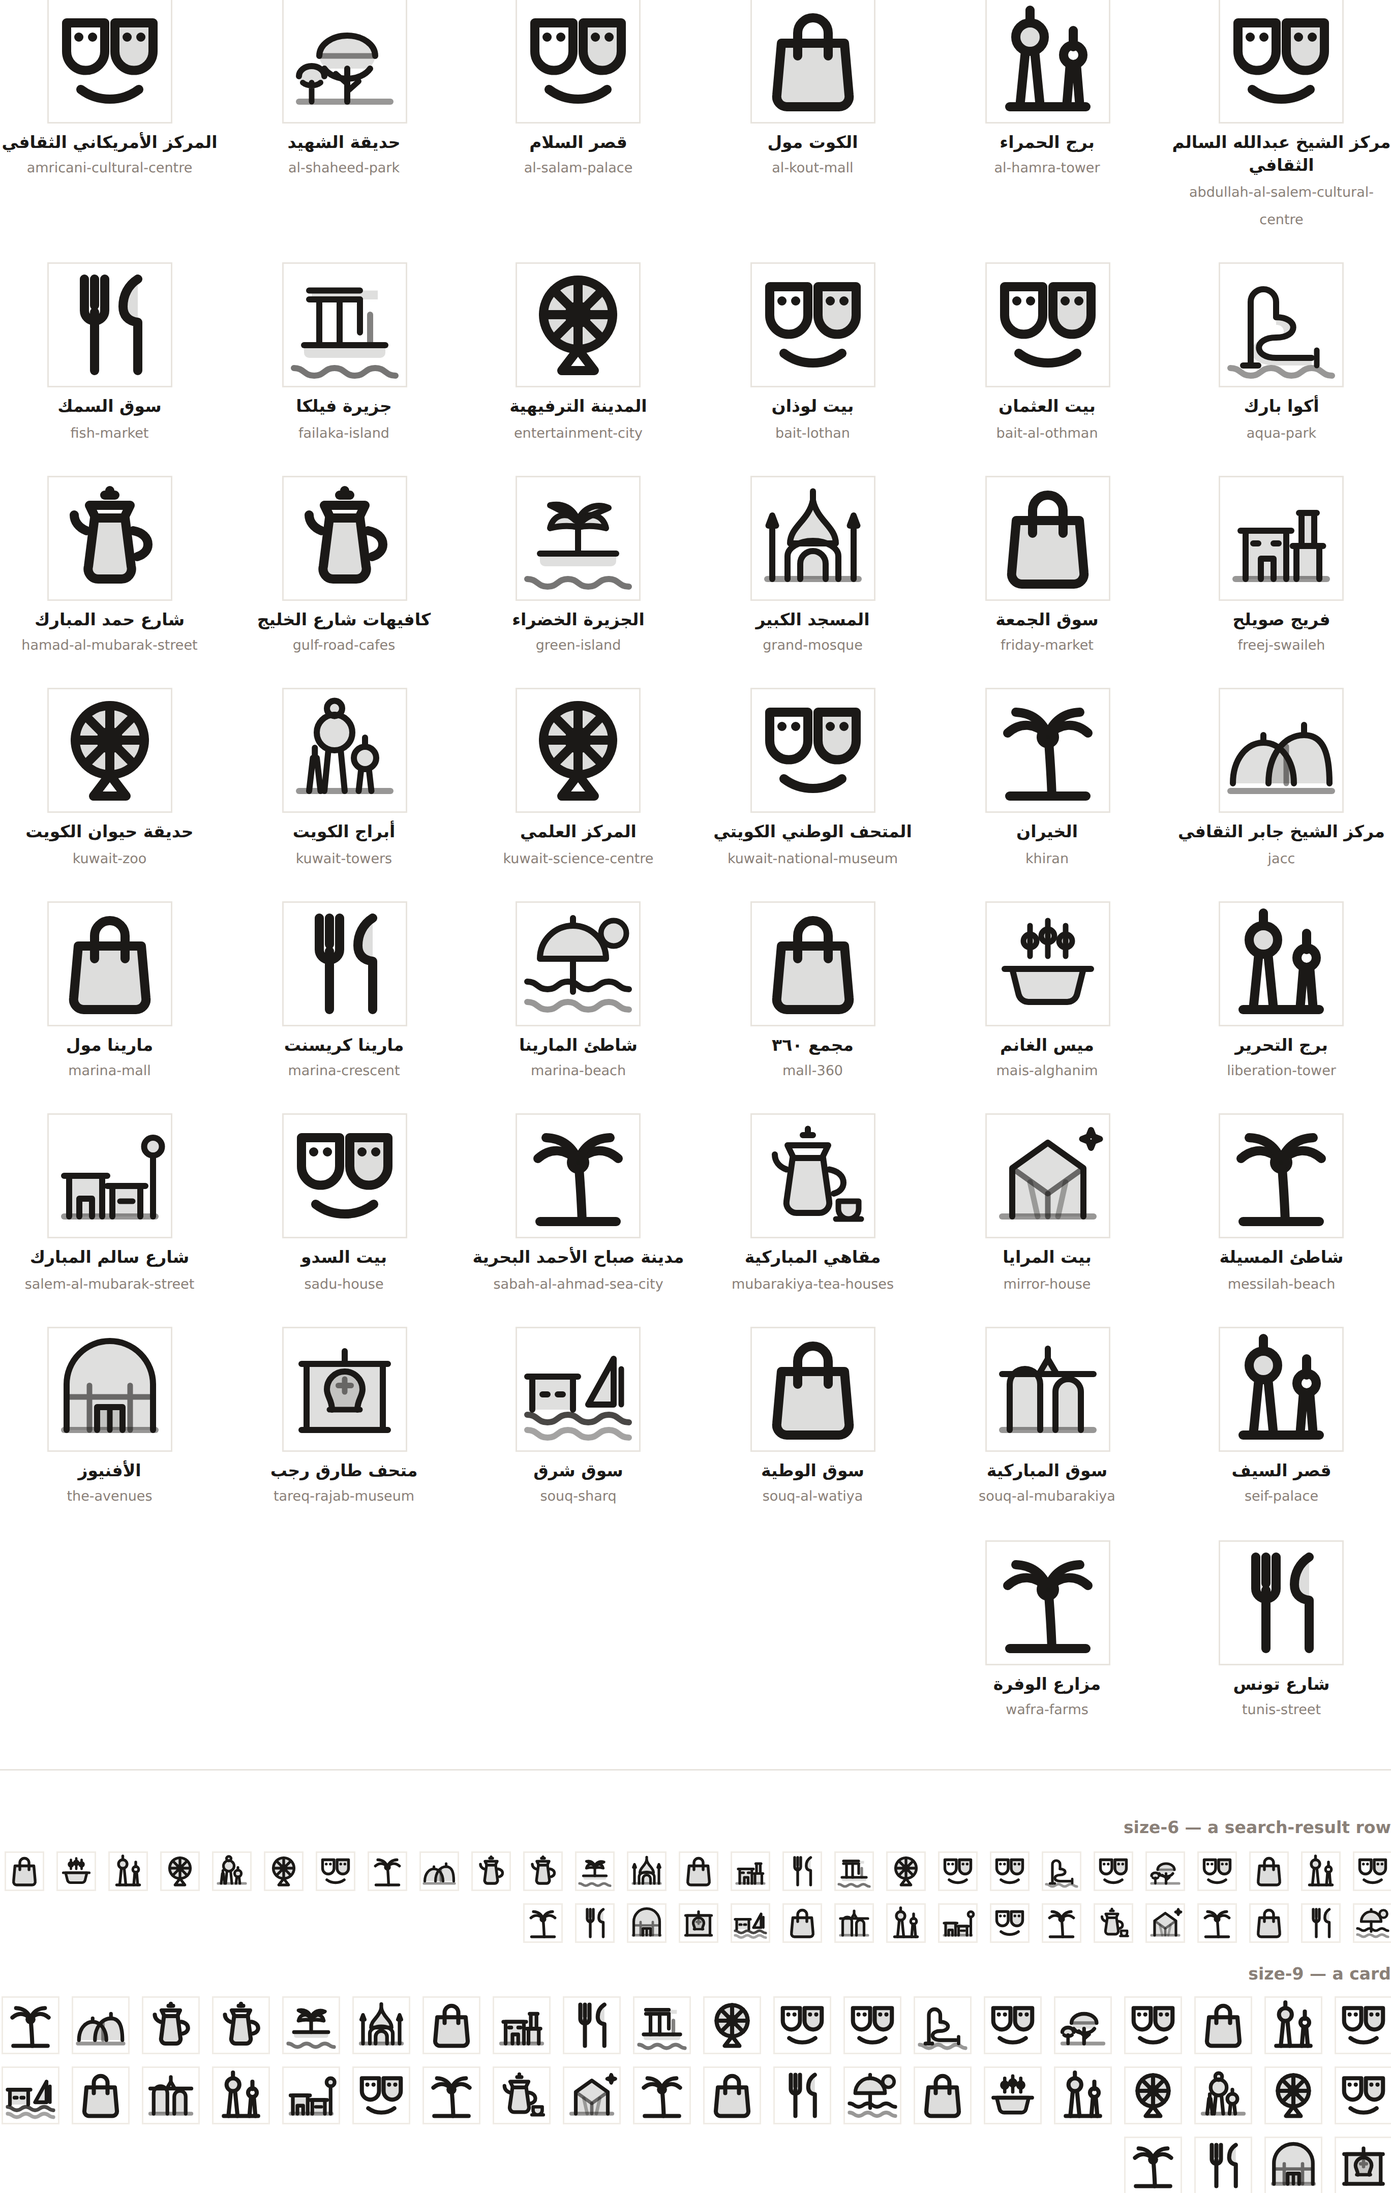
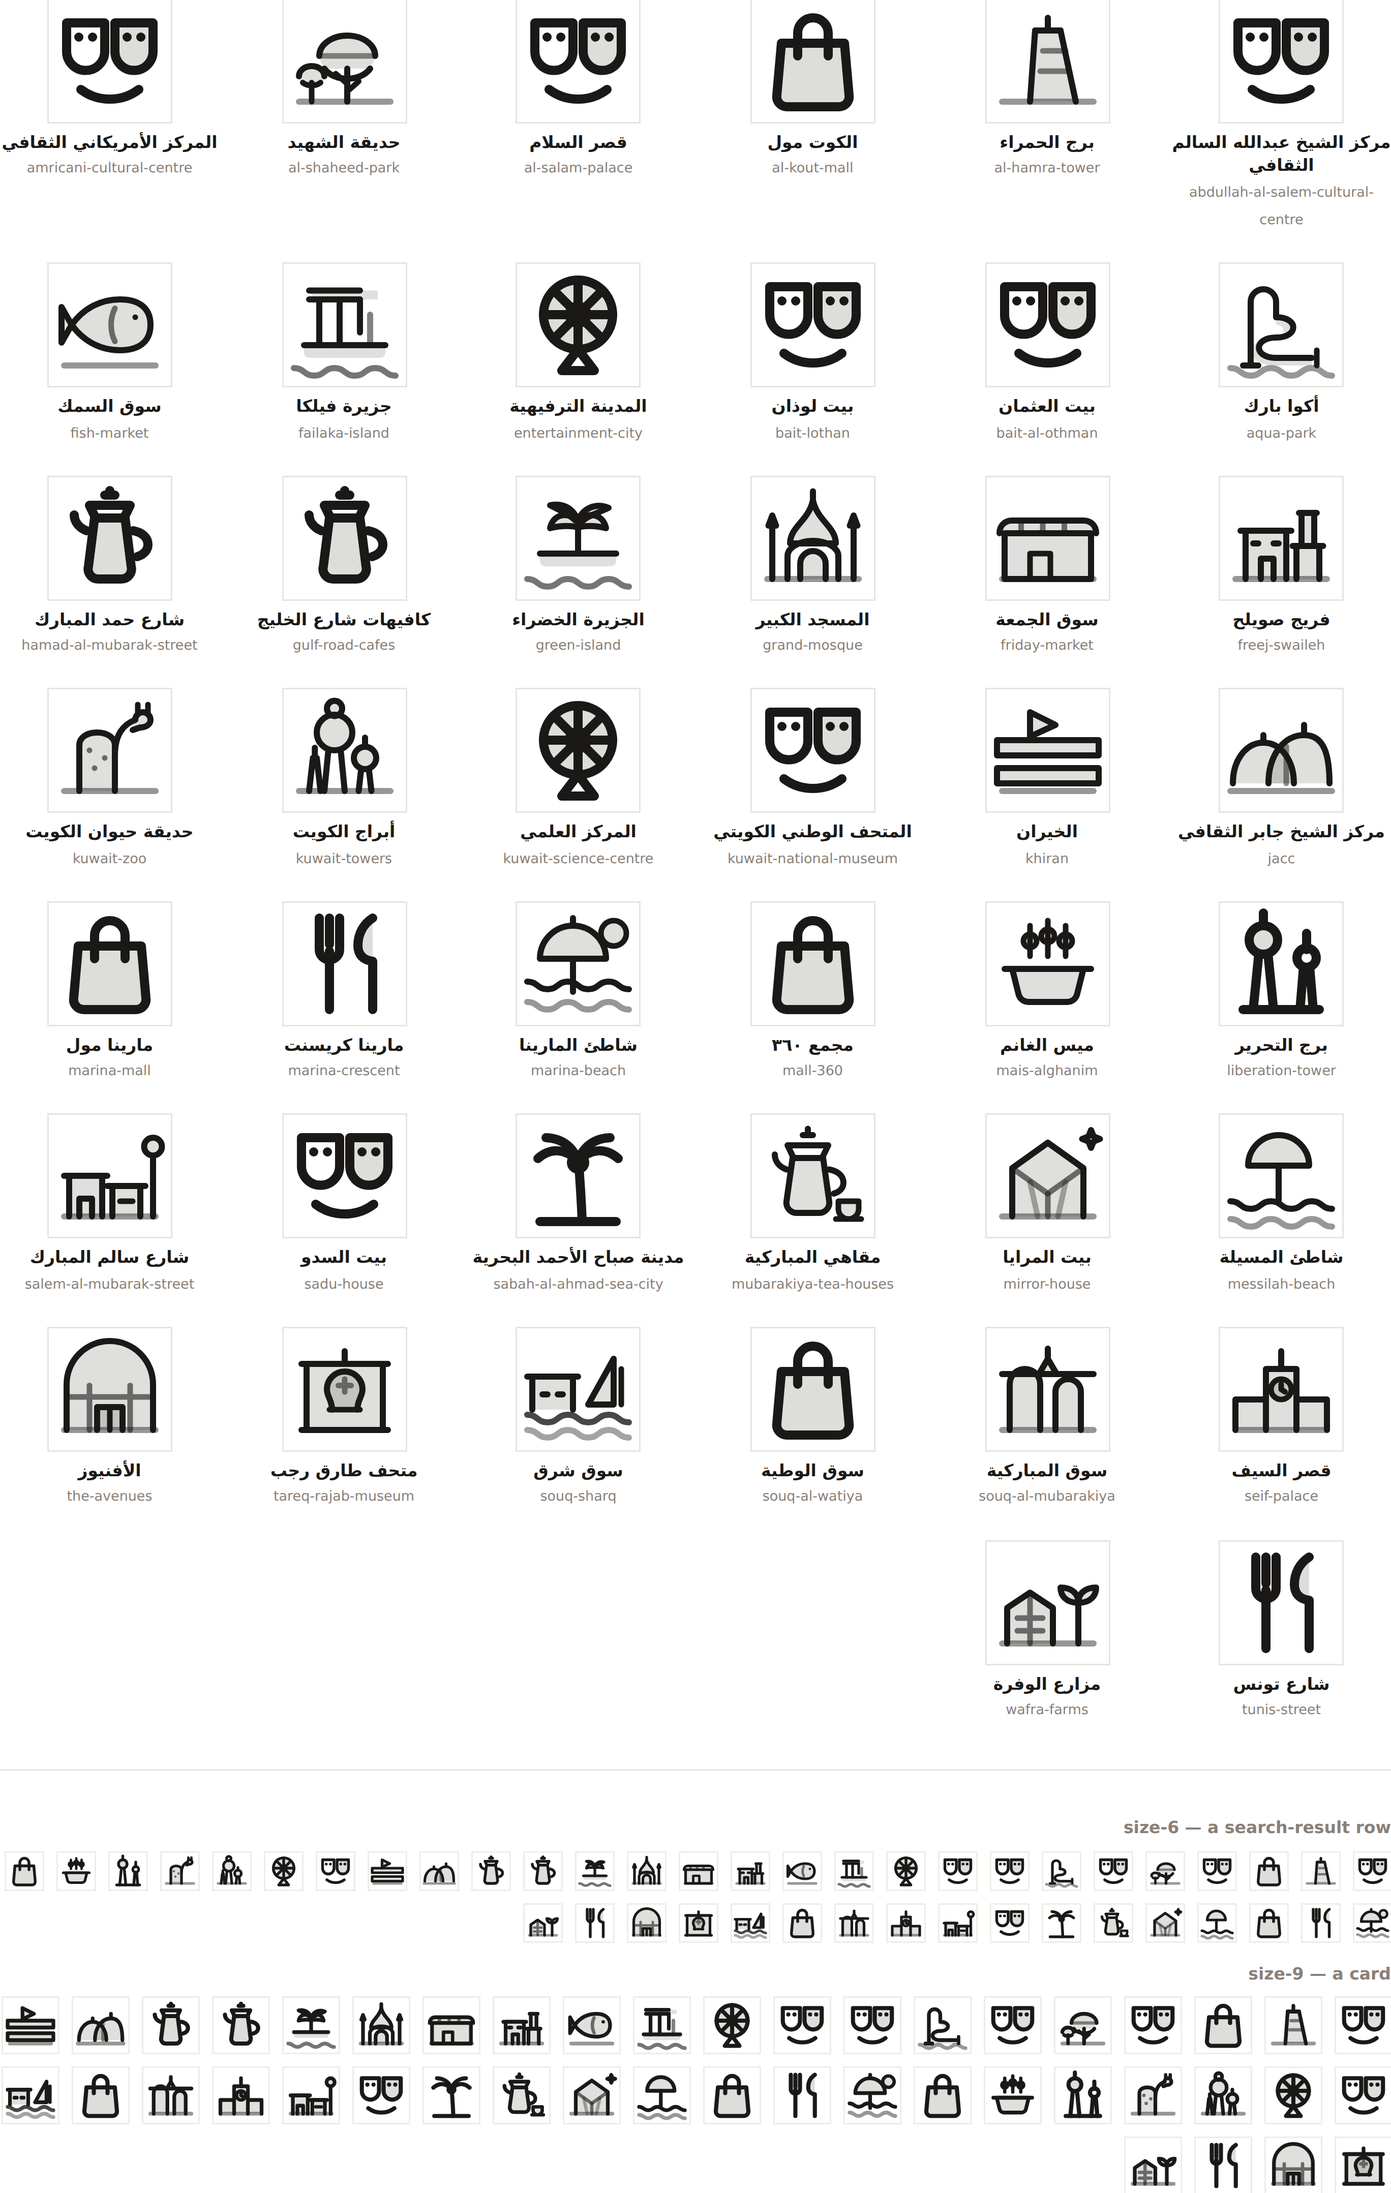
Search that keeps up, a pin that points, and eight fewer identical dots
Three things, each measured before and after.

**The search box lagged the finger by half a second.** On a 4× throttled
phone a keystroke took up to 615ms to paint, and typing one phrase
produced fourteen long tasks — up to 224ms each. Almost none of it was
the search: `search()` costs 0.09ms over this catalogue. It was
everything hanging off it — up to sixty result cards, and a map that
re-fits its frame and re-spreads every pin, all synchronously, between
the key going down and the letter appearing.

useDeferredValue splits the two. `q` still updates instantly so the box
echoes the finger; everything derived from it re-renders at a lower
priority and is interruptible, so the next keystroke pre-empts a results
render still in flight instead of queueing behind it. Worst keystroke
615ms → 78ms, under the 100ms «instant» threshold; long tasks 14 → 4.

Two things ride along, both about the same feeling. Stale results dim
rather than blank, because blanking makes every keystroke a flash of
empty page. And «ما لقينا شي عن…» no longer appears while the results are
still catching up — announcing a dead end mid-word is the most annoying
thing a live search box can do.

**The pin is a pointer now.** A disc centred on the coordinate is compact
and mute about WHICH point: a crosshair drawn at the true position
disappears entirely under it. The tip is the place; the head is where the
icon lives. Two things were wrong on the way and the new assertion caught
[…]

diff --git a/src/components/MapPin.tsx b/src/components/MapPin.tsx
@@ -48,6 +48,10 @@ const TONE: Record<CategoryId, string> = {
   family: "bg-palm-700",
 };
 
+/** The head's white outline, in px — `border-2`. Named because the nose has
+ *  to compensate for it: see where the nose is positioned. */
+const HEAD_BORDER = 2;
+
 /** Matching ring for the halo around an active pin. */
 const RING: Record<CategoryId, string> = {
   landmarks: "bg-sea-600/30",
@@ -117,18 +121,35 @@ export default function MapPin({
    */
   const selectedOnPress = useRef(false);
 
+  /**
+   * The nose, and how far the pin now stands above its own coordinate.
+   *
+   * A disc centred on the point is compact and it is also mute about WHICH
+   * point: the coordinate is somewhere under the disc, and a crosshair drawn
+   * at the true position disappears entirely beneath it. A pointer says it —
+   * the tip is the place, the head is just where the icon lives.
+   *
+   * So the whole pin moved up by its own height (-translate-y-full) and the
+   * tip, not the centre, sits on the coordinate. Everything the frame computes
+   * is unchanged: `spreadPins` still reserves a circle of `size`, because the
+   * head is still what must not overlap its neighbours.
+   */
+  const nose = Math.round(size * 0.34);
+
   return (
     <span
       style={style}
-      className={`absolute -translate-x-1/2 -translate-y-1/2 ${active ? "z-30" : dim ? "z-10" : "z-20"}`}
+      className={`absolute -translate-x-1/2 -translate-y-full ${active ? "z-30" : dim ? "z-10" : "z-20"}`}
     >
       {/* The halo sits behind and is the thing that makes the active pin
-          findable at a glance on a busy frame. It never intercepts a tap. */}
+          findable at a glance on a busy frame. It never intercepts a tap.
+          Centred on the TIP rather than the head: it marks the ground, which
+          is the thing the pin is pointing at. */}
       {active && (
         <span
           aria-hidden="true"
           style={{ width: size * 2, height: size * 2 }}
-          className={`pointer-events-none absolute left-1/2 top-1/2 -translate-x-1/2 -translate-y-1/2 animate-ping rounded-full motion-reduce:animate-none ${RING[place.category]}`}
+          className={`pointer-events-none absolute bottom-0 left-1/2 -translate-x-1/2 translate-y-1/2 animate-ping rounded-full motion-reduce:animate-none ${RING[place.category]}`}
         />
       )}
 
@@ -151,12 +172,45 @@ export default function MapPin({
         }}
         aria-label={`${place.nameAr} — ${place.areaAr}`}
         aria-current={active ? "true" : undefined}
-        style={{ width: size, height: size }}
+        style={{
+          width: size,
+          height: size,
+          // Grow from the tip, so hovering enlarges the pin without sliding
+          // the point it is naming. Scaling about the head's centre moves the
+          // tip by a couple of pixels on every hover, which on a map reads as
+          // the place itself twitching.
+          transformOrigin: `50% ${size + nose / 2}px`,
+          // Half the nose's DIAGONAL, not its side. The square is centred on
+          // the head's bottom edge and turned 45°, so the corner that forms
+          // the tip reaches nose·√2/2 below that edge — reserving `nose` here
+          // instead left the tip 4.6px short of the coordinate it names, which
+          // is most of a city block at the zoom a place page opens at.
+          marginBottom: nose * Math.SQRT1_2,
+        }}
         className={`relative grid place-items-center rounded-full border-2 border-white text-white shadow-md ring-1 ring-ink-900/10 transition duration-200 hover:scale-110 focus-visible:scale-110 ${
           TONE[place.category]
         } ${active ? "scale-110 shadow-xl" : dim ? "opacity-80" : ""}`}
       >
         <PlaceIcon slug={place.slug} className={size >= 32 ? "size-5" : "size-4"} />
+        {/* The nose. A square on its corner, tucked under the head so the two
+            read as one shape — and a child of the link, so it scales with the
+            head instead of staying behind while the head grows. The white on
+            its two outer edges continues the head's border down to the tip. */}
+        <span
+          aria-hidden="true"
+          /**
+           * `-nose/2` would centre the square on the head's bottom edge — if
+           * the head had no border. An absolutely positioned child is placed
+           * against its parent's PADDING box, and the head's white border-2
+           * sits outside that, so every offset here starts 2px too high and
+           * the tip landed 1.4px short of the coordinate. HEAD_BORDER puts it
+           * back, and names the reason so the two cannot drift apart.
+           */
+          style={{ width: nose, height: nose, bottom: -(nose / 2 + HEAD_BORDER) }}
+          className={`absolute left-1/2 -z-10 -translate-x-1/2 rotate-45 rounded-[3px] border-b-2 border-e-2 border-white ${
+            TONE[place.category]
+          }`}
+        />
       </Link>
 
       {/* The callout. On a phone this is the whole reason the first tap does

diff --git a/src/components/PlaceIcon.tsx b/src/components/PlaceIcon.tsx
@@ -346,6 +346,124 @@ function Art({ slug }: { slug: string }) {
         </>
       );
 
+    /* ── drawn to break up the fallbacks ────────────────────────────────
+       Twenty-seven of forty-four places had no mark of their own, so a map
+       of six culture places drew the same museum glyph six times and the two
+       southern beaches were one identical palm. These are the subjects that
+       were colliding most on a single frame. */
+
+    case "fish-market":
+      return (
+        <>
+          <path {...F} d="M9 24c5-7 12-10 19-10s12 3 12 10-5 10-12 10-14-3-19-10Z" />
+          <path d="M9 24c5-7 12-10 19-10s12 3 12 10-5 10-12 10-14-3-19-10Z" />
+          {/* The tail, and the reason a fish reads as a fish at 16px. */}
+          <path {...F} d="M9 24 5 17v14Z" />
+          <path d="M9 24 5 17v14Z" />
+          <path d="M34 21h.01" style={DETAIL} />
+          <path d="M26 17.5c-2 4-2 9 0 13" style={DETAIL} opacity={0.6} />
+          {GROUND}
+        </>
+      );
+
+    case "al-hamra-tower":
+      return (
+        <>
+          {/* The twist: two edges that lean opposite ways, which is the whole
+              silhouette people recognise from the skyline. */}
+          <path {...F} d="M17 40 19 12h10l6 28Z" />
+          <path d="M17 40 19 12h10l6 28" />
+          <path d="M19 12h10" />
+          <path d="M22 20h9M21 28h11" style={DETAIL} opacity={0.55} />
+          <path d="M24 12V7" />
+          {GROUND}
+        </>
+      );
+
+    case "seif-palace":
+      return (
+        <>
+          {/* The clock tower, tiled blue and gold, over the palace wall. */}
+          <path {...F} d="M18 40V16h12v24Z" />
+          <path d="M18 40V16h12v24" />
+          <path d="M24 16V9" />
+          <circle {...F} cx="24" cy="24" r="4" />
+          <circle cx="24" cy="24" r="4" style={DETAIL} />
+          <path d="M24 22v2l1.5 1" style={DETAIL} />
+          <path {...F} d="M6 40V28h12v12ZM30 40V28h12v12Z" />
+          <path d="M6 40V28h12M30 28h12v12" />
+          {GROUND}
+        </>
+      );
+
+    case "kuwait-zoo":
+      return (
+        <>
+          {/* A giraffe: the one animal whose outline survives 16px. */}
+          <path {...F} d="M26 40V22c0-3-3-5-7-5s-7 2-7 5v18Z" />
+          <path d="M26 40V22c0-3-3-5-7-5s-7 2-7 5v18" />
+          <path d="M26 26c0-8 3-12 8-14" />
+          <path {...F} d="M34 12a3 3 0 0 1 6 0c0 2-2 3-4 3l-3 1Z" />
+          <path d="M34 12a3 3 0 0 1 6 0c0 2-2 3-4 3l-3 1" />
+          <path d="M35 9V6M39 9V6" style={DETAIL} />
+          <path d="M16 24h.01M22 27h.01M18 31h.01" style={DETAIL} opacity={0.6} />
+          {GROUND}
+        </>
+      );
+
+    case "khiran":
+      return (
+        <>
+          {/* Water cut into the desert: two channels and a boat, not a beach. */}
+          <path {...F} d="M4 20h40v6H4ZM4 31h40v6H4Z" />
+          <path d="M4 20h40v6H4ZM4 31h40v6H4Z" />
+          <path {...F} d="M17 20V9l10 5-10 4.6Z" />
+          <path d="M17 20V9l10 5-10 4.6Z" />
+          {GROUND}
+        </>
+      );
+
+    case "messilah-beach":
+      return (
+        <>
+          {/* A parasol on sand — the difference between this and a public park
+              is the thing you bring, not the plants. */}
+          <path {...F} d="M11 20a12 12 0 0 1 24 0Z" />
+          <path d="M11 20a12 12 0 0 1 24 0Z" />
+          <path d="M23 20v14" />
+          <path d="M4 34c4 0 4 3 8 3s4-3 8-3 4 3 8 3 4-3 8-3 4 3 8 3" />
+          <path d="M4 41c4 0 4 3 8 3s4-3 8-3 4 3 8 3 4-3 8-3 4 3 8 3" opacity={0.45} />
+        </>
+      );
+
+    case "wafra-farms":
+      return (
+        <>
+          {/* Rows under glass, with the season's dates hanging at the side. */}
+          <path {...F} d="M8 40V26l9-6 9 6v14Z" />
+          <path d="M8 40V26l9-6 9 6v14" />
+          <path d="M17 20v20M12 30h10M12 35h10" style={DETAIL} opacity={0.6} />
+          <path d="M36 40V24" />
+          <path {...F} d="M36 24c-5 0-7-3-7-6 4 0 7 2 7 6ZM36 24c5 0 7-3 7-6-4 0-7 2-7 6Z" />
+          <path d="M36 24c-5 0-7-3-7-6 4 0 7 2 7 6ZM36 24c5 0 7-3 7-6-4 0-7 2-7 6Z" />
+          {GROUND}
+        </>
+      );
+
+    case "friday-market":
+      return (
+        <>
+          {/* A stall: the scalloped awning is the whole signal. */}
+          <path {...F} d="M7 22h34v18H7Z" />
+          <path d="M7 22h34v18H7Z" />
+          <path {...F} d="M5 22c0-3 2-5 5-5h28c3 0 5 2 5 5Z" />
+          <path d="M5 22c0-3 2-5 5-5h28c3 0 5 2 5 5" />
+          <path d="M13.5 17v5M22 17v5M30.5 17v5" style={DETAIL} opacity={0.6} />
+          <path d="M17 40V30h8v10" style={DETAIL} />
+          {GROUND}
+        </>
+      );
+
     /* Fallback: a pin, so a newly added place still gets a mark. */
     default:
       return null;

diff --git a/src/app/search/SearchClient.tsx b/src/app/search/SearchClient.tsx
@@ -1,6 +1,6 @@
 "use client";
 
-import { useEffect, useMemo, useRef, useState } from "react";
+import { useDeferredValue, useEffect, useMemo, useRef, useState } from "react";
 import { useRouter, useSearchParams } from "next/navigation";
 import Link from "next/link";
 import SearchMap from "@/components/SearchMap";
@@ -36,12 +36,32 @@ export default function SearchClient() {
   const [activeSlug, setActiveSlug] = useState<string | null>(null);
   const inputRef = useRef<HTMLInputElement>(null);
 
+  /**
+   * The query the RESULTS are for, which is allowed to lag the query the BOX
+   * shows.
+   *
+   * Measured on a 4× throttled phone, a keystroke took up to 615ms to paint
+   * and typing one phrase produced fourteen long tasks. Almost none of it was
+   * the search: `search()` costs 0.09ms over this catalogue. It was the
+   * rendering hanging off it — up to sixty result cards, and a map that
+   * re-fits its frame and re-spreads every pin, all synchronously, between the
+   * key going down and the letter appearing.
+   *
+   * useDeferredValue splits the two. `q` still updates instantly, so the box
+   * echoes the finger; everything derived from `deferredQ` re-renders at a
+   * lower priority and is interruptible, so the next keystroke pre-empts a
+   * results render still in flight instead of queueing behind it.
+   */
+  const deferredQ = useDeferredValue(q);
+  /** True while the results on screen are for an older query than the box. */
+  const settling = deferredQ !== q;
+
   // Rebuilt whenever the place data changes (admin edits arrive live).
   const index = useMemo(() => buildIndex(places), [places]);
 
   const hits = useMemo(
-    () => search(q, index, { limit: 40, kinds: kind === "all" ? undefined : [kind] }),
-    [q, index, kind]
+    () => search(deferredQ, index, { limit: 40, kinds: kind === "all" ? undefined : [kind] }),
+    [deferredQ, index, kind]
   );
 
   // The place hits, in result order, resolved back to full records so the map
@@ -71,7 +91,7 @@ export default function SearchClient() {
   }, []);
 
   const counts = useMemo(() => {
-    const all = search(q, index, { limit: 200 });
+    const all = search(deferredQ, index, { limit: 200 });
     return {
       all: all.length,
       place: all.filter((h) => h.doc.kind === "place").length,
@@ -79,7 +99,7 @@ export default function SearchClient() {
       area: all.filter((h) => h.doc.kind === "area").length,
       page: all.filter((h) => h.doc.kind === "page").length,
     };
-  }, [q, index]);
+  }, [deferredQ, index]);
 
   // A kind filter chosen for an earlier query can have nothing for the new
   // one. Left alone it becomes a dead end: the chip stays selected but
@@ -226,13 +246,23 @@ export default function SearchClient() {
             </ul>
           </section>
         ) : hits.length > 0 ? (
-          <>
-            <p className="mb-4 text-sm text-ink-500">
+          /* Dimmed, not blanked, while the results are still for an older
+             query than the box. Blanking would make every keystroke a flash
+             of empty page; this says «catching up» quietly and keeps what is
+             on screen readable, which is usually still the right answer. */
+          <div className={settling ? "opacity-60 transition-opacity duration-150" : "transition-opacity duration-150"}>
+            <p className="mb-4 text-sm text-ink-500" aria-live="polite">
               {toArabicDigits(hits.length)} نتيجة
             </p>
             <SearchMap places={hitPlaces} active={activeSlug} onActive={setActiveSlug} />
             <SearchResults hits={hits} activeSlug={activeSlug} onActiveSlug={setActiveSlug} />
-          </>
+          </div>
+        ) : settling ? (
+          /* Nothing yet for the newest query, but the older one is still being
+             replaced — so this is «not finished», not «nothing there». The
+             empty state below announces a dead end, and announcing one mid-word
+             is the single most annoying thing a live search box can do. */
+          null
         ) : (
           <div className="rounded-3xl border border-dashed border-line-strong bg-sand-100/70 py-16 text-center">
             <span
